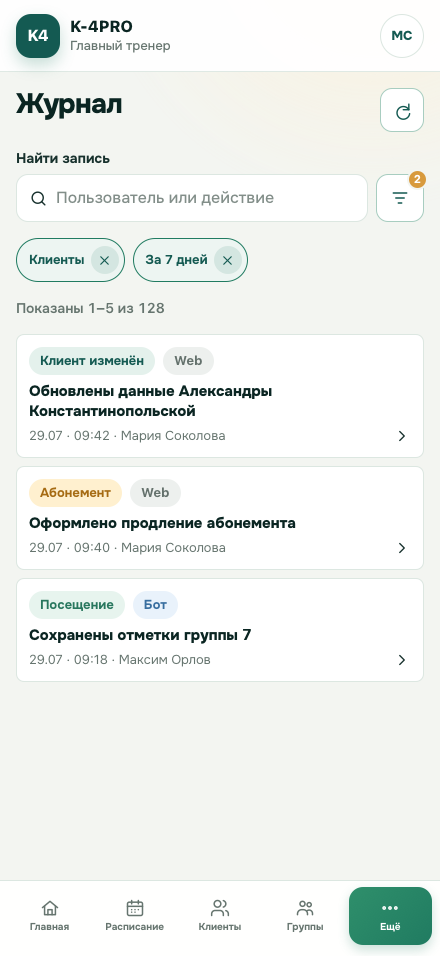
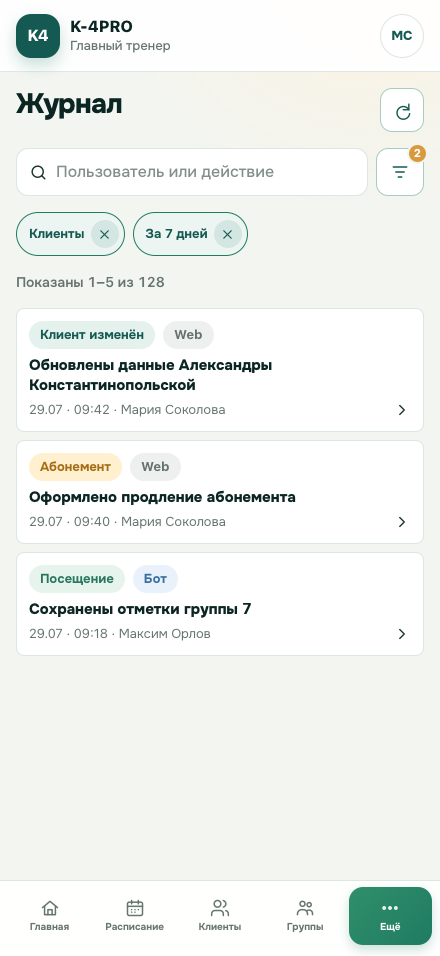
уточнение макетов

Changed region(s): [[0.0295, 0.1517, 0.9455, 0.6977], [0.8568, 0.1517, 0.975, 0.2123], [0.8864, 0.4247, 0.9159, 0.455]]

diff --git a/docs/ui-concept/task-090-iphone-17-pro-max/app.js b/docs/ui-concept/task-090-iphone-17-pro-max/app.js
@@ -93,13 +93,24 @@ function sectionTitle(title, description = '', action = '') {
     </div>`
 }
 
-function locator({ value = '', placeholder = 'Поиск', count = 0, label = 'Поиск', geometry = true } = {}) {
+function locator({
+  value = '',
+  placeholder = 'Поиск',
+  count = 0,
+  label = 'Поиск',
+  geometry = true,
+  visibleLabel = false,
+  kind = 'search',
+} = {}) {
+  const isSearch = kind === 'search'
+  const fieldRole = isSearch ? 'searchbox' : 'button'
+  const fieldLabel = isSearch ? label : `${label}: ${value}`
   return `
-    <div class="locator" role="search"${geometry ? ' data-geometry="locator"' : ''}>
+    <div class="locator locator--${kind}" role="${isSearch ? 'search' : 'group'}" data-locator-kind="${kind}"${geometry ? ' data-geometry="locator"' : ''}>
       <div class="locator__field">
-        <span class="persistent-label">${label}</span>
-        <div class="input-shell">
-          ${icon('search', 19)}
+        <span class="persistent-label${visibleLabel ? '' : ' sr-only'}">${label}</span>
+        <div class="input-shell" role="${fieldRole}" aria-label="${fieldLabel}">
+          ${icon(isSearch ? 'search' : 'calendar', 19)}
           <span class="${value ? 'input-shell__value' : 'input-shell__placeholder'}">${value || placeholder}</span>
           ${value ? icon('close', 18) : ''}
         </div>
@@ -236,7 +247,7 @@ function settingsTabs(active) {
 function baseClientsContext(body) {
   return shell(
     `${pageHeader('Клиенты', `${button('', { iconName: 'refresh' })}${button('', { iconName: 'plus', kind: 'accent' })}`)}
-    ${locator({ placeholder: 'Имя или телефон' })}
+    ${locator({ placeholder: 'Имя или телефон', label: 'Найти клиента' })}
     ${body}`,
     { active: 'clients' },
   )
@@ -335,7 +346,7 @@ const scenes = {
 
   'system-empty-filtered': () => shell(
     `${pageHeader('Клиенты')}
-    ${locator({ value: 'Алексей', count: 2 })}
+    ${locator({ value: 'Алексей', count: 2, label: 'Найти клиента' })}
     ${activeFilters(['Без абонемента', 'Группа 7'])}
     ${rangeStatus('0 совпадений')}
     ${statePanel('Клиенты не найдены', 'Поиск «Алексей» сохранён. Сбросьте только расширенные фильтры или очистите запрос отдельно.', { iconName: 'search', action: button('Сбросить фильтры', { kind: 'primary', iconName: 'filter' }) })}`,
@@ -422,7 +433,7 @@ const scenes = {
 
   'clients-browse': () => shell(
     `${pageHeader('Клиенты', `${button('', { iconName: 'refresh' })}${button('Новый', { kind: 'accent', iconName: 'plus' })}`)}
-    ${locator({ placeholder: 'Имя или телефон', count: 2 })}
+    ${locator({ placeholder: 'Имя или телефон', count: 2, label: 'Найти клиента' })}
     ${activeFilters(['Без абонемента', 'Активные'])}
     ${rangeStatus('Показаны 1–5 из 48')}
     <div class="task-list">
@@ -437,7 +448,7 @@ const scenes = {
   'clients-search-focused': () => shell(
     `<div class="page-stack" style="gap:12px">
       <h1 class="sr-only">Клиенты</h1>
-      ${locator({ value: 'А', count: 2 })}
+      ${locator({ value: 'А', count: 2, label: 'Найти клиента' })}
       ${activeFilters(['Активные', 'Без группы'])}
       ${rangeStatus('Показаны 1–6 · есть ещё')}
       <div class="task-list">
@@ -529,7 +540,7 @@ const scenes = {
   'groups-list': () => shell(
     `${pageHeader('Группы', `${button('', { iconName: 'refresh' })}${button('Создать', { kind: 'accent', iconName: 'plus' })}`)}
     <div class="metrics">${metric('Активные', '10')}${metric('Без тренера', '1', 'нужно назначить')}</div>
-    ${locator({ placeholder: 'Название группы', count: 1 })}
+    ${locator({ placeholder: 'Название группы', count: 1, label: 'Найти группу' })}
     ${rangeStatus('Показаны 1–3 из 12')}
     <div class="task-list">
       ${groupItem('Группа 7: вечер', 'Вт, Чт · старт 19:00 · 90 мин', 'Северный · Основной зал', 'Максим Орлов, Анна Лебедева', '14 клиентов · 2 тренера', 0)}
@@ -570,7 +581,7 @@ const scenes = {
   'users-list': () => shell(
     `${pageHeader('Тренеры', `${button('', { iconName: 'refresh' })}${button('Создать', { kind: 'accent', iconName: 'plus' })}`)}
     <div class="metrics">${metric('Активные', '7')}${metric('Смена пароля', '1')}</div>
-    ${locator({ placeholder: 'ФИО или логин', count: 1 })}
+    ${locator({ placeholder: 'ФИО или логин', count: 1, label: 'Найти тренера' })}
     ${rangeStatus('Показаны 1–4 из 8')}
     <div class="task-list">
       <article class="task-item" data-geometry="task-item-0"><div class="task-item__top"><div><div class="task-item__identity">Максим Орлов</div><div class="task-item__meta">maxim.orlov · Telegram подключён</div></div>${button('', { iconName: 'edit', kind: 'soft' })}</div><div class="badge-row">${badge('Главный тренер', 'brand')}${badge('Активен', 'success')}</div></article>
@@ -609,7 +620,7 @@ const scenes = {
 
   'audit-list': () => shell(
     `${pageHeader('Журнал', button('', { iconName: 'refresh' }))}
-    ${locator({ placeholder: 'Пользователь или действие', count: 2, label: 'Найти запись' })}
+    ${locator({ placeholder: 'Пользователь или действие', count: 2, label: 'Найти запись журнала' })}
     ${activeFilters(['Клиенты', 'За 7 дней'])}
     ${rangeStatus('Показаны 1–5 из 128')}
     <div class="task-list">
@@ -621,7 +632,7 @@ const scenes = {
   ),
 
   'audit-details-modal': () => shell(
-    `${pageHeader('Журнал')}${locator({ placeholder: 'Пользователь или действие', count: 2, label: 'Найти запись' })}<div class="task-list"><article class="audit-event"><div class="badge-row">${badge('Клиент изменён', 'brand')}</div><div class="audit-event__title">Обновлены данные Александры Константинопольской</div><div class="audit-event__meta">29.07 · 09:42 · Мария Соколова</div></article></div>`,
+    `${pageHeader('Журнал')}${locator({ placeholder: 'Пользователь или действие', count: 2, label: 'Найти запись журнала' })}<div class="task-list"><article class="audit-event"><div class="badge-row">${badge('Клиент изменён', 'brand')}</div><div class="audit-event__title">Обновлены данные Александры Константинопольской</div><div class="audit-event__meta">29.07 · 09:42 · Мария Соколова</div></article></div>`,
     { active: 'more', role: 'Главный тренер' },
   ) + modalOverlay(
     'Подробности записи',
@@ -631,7 +642,7 @@ const scenes = {
 
   'finance-report': () => shell(
     `${pageHeader('Финансы', button('', { iconName: 'refresh' }))}
-    ${locator({ value: 'Июль 2026', count: 1, label: 'Период отчёта' })}
+    ${locator({ value: 'Июль 2026', count: 1, label: 'Период отчёта', visibleLabel: true, kind: 'period' })}
     ${activeFilters(['Все филиалы'])}
     <div class="metrics">${metric('Выручка', '486 200 ₽', 'продажи за период')}${metric('Чистая выручка', '462 800 ₽', 'после возвратов')}${metric('Продано', '64', 'абонемента')}${metric('Новые клиенты', '18')}</div>
     ${section(`${sectionTitle('По филиалам')}<div class="breakdown-row"><span class="breakdown-row__name">Северный</span><span class="breakdown-row__value">286 400 ₽</span></div><div class="breakdown-row"><span class="breakdown-row__name">Центр</span><span class="breakdown-row__value">176 400 ₽</span></div>`)}
@@ -641,7 +652,7 @@ const scenes = {
 
   'finance-zero-report': () => shell(
     `${pageHeader('Финансы', button('', { iconName: 'refresh' }))}
-    ${locator({ value: '1–7 января 2025', count: 2, label: 'Период отчёта' })}
+    ${locator({ value: '1–7 января 2025', count: 2, label: 'Период отчёта', visibleLabel: true, kind: 'period' })}
     ${activeFilters(['Центр', 'Илья Миронов'])}
     <div class="metrics">${metric('Выручка', '0 ₽')}${metric('Продано', '0')}</div>
     ${statePanel('За выбранный период операций нет', 'Измените период или снимите фильтры. Текущий отчёт и выбранный контекст сохранены.', { iconName: 'money', action: button('Сбросить фильтры', { kind: 'primary', iconName: 'filter' }) })}`,

diff --git a/docs/ui-concept/README.md b/docs/ui-concept/README.md
@@ -46,6 +46,11 @@ Compact page header -> Summary/locator/filter -> Primary content surface
 - Допустимые пояснения к validation, recovery, constraint, security/legal или
   operational state показываются у связанного поля, действия или state panel,
   а не используются для заполнения header.
+- Единственный primary search locator не показывает отдельную строку `Поиск`
+  или `Найти...` на mobile и desktop. Его accessible name остаётся доступен
+  через visually-hidden label/ARIA, а placeholder описывает searchable fields.
+- Visible labels сохраняются у обычных form fields, нескольких неоднозначных
+  inputs и period/date/scope controls.
 - Ролевые бейджи показывать только когда они реально объясняют доступ или сценарий.
 - Summary strip: компактные stat pills в одну строку на desktop, wrap на mobile.
 - Filter bar: сначала частые фильтры, редкие фильтры в advanced area/drawer.

diff --git a/.agents/skills/crm-mobile-first-ui/references/mobile-acceptance.md b/.agents/skills/crm-mobile-first-ui/references/mobile-acceptance.md
@@ -56,6 +56,12 @@ visual viewport.
   toolbar/detail context, or state panel.
 - Desktop `1440 x 1200` does not reintroduce mobile-forbidden intro/hero or
   subtitle copy merely because more space is available.
+- A sole, obvious route-level search has no visible generic `Search`/`Find…`
+  label on mobile, tablet, or desktop.
+- Every visually unlabeled searchbox has a stable operation-and-object
+  accessible name from a label or ARIA; placeholder is not its only name.
+- Ordinary form fields, multiple or ambiguous text fields, and
+  period/date/scope controls retain visible persistent labels.
 - Fixed and sticky headers, bottom navigation, action bars, close controls, and notifications remain inside the safe area.
 - Safe-area spacing combines the project spacing token with `env(safe-area-inset-*)` or an equivalent measured inset; the safe-area inset does not replace the normal content margin.
 - Full-height mobile surfaces remain usable as Safari chrome expands or collapses and do not rely on `100vh` alone as evidence of correct height.

diff --git a/.agents/skills/crm-mobile-first-ui/SKILL.md b/.agents/skills/crm-mobile-first-ui/SKILL.md
@@ -81,6 +81,11 @@ Rules:
 - place allowed validation, recovery, security/legal, prerequisite, scope, and
   operational-state copy next to the affected field, action, section, or state
   surface instead of using it as decorative text under the route title.
+- omit the visible generic label above a sole, obvious route-level search on
+  mobile and desktop; keep a stable accessible name through an associated
+  visually-hidden label or ARIA, and do not use placeholder as that name;
+- preserve visible persistent labels for ordinary forms, multiple or ambiguous
+  text fields, and period/date/scope controls.
 
 Use `.agents/skills/design-first-ui-prompting/SKILL.md` only when the
 deliverable includes a prompt for an external UI generator, a static visual

diff --git a/.agents/skills/crm-mobile-first-ui/references/mantine-patterns.md b/.agents/skills/crm-mobile-first-ui/references/mantine-patterns.md
@@ -42,7 +42,9 @@ Use the installed Mantine version and inspect existing shared components before 
 
 - Use the correct input type and autocomplete attributes.
 - Keep text inputs, textareas, and selects at 16 CSS px or larger on iPhone.
-- Keep labels persistent; do not rely on placeholder-only identification.
+- Keep labels persistent for ordinary forms, multiple or ambiguous fields, and
+  period/date/scope controls. A sole obvious route-level search may use a
+  visually-hidden label or ARIA name, but never placeholder-only identification.
 - Scroll or focus the first invalid field after submit.
 - Preserve entered values after recoverable API errors.
 - Keep the submit action visible or reachable with the mobile keyboard open.

diff --git a/docs/ui-concept/task-090-iphone-17-pro-max/README.md b/docs/ui-concept/task-090-iphone-17-pro-max/README.md
@@ -31,6 +31,8 @@ The rendered screenshots follow the cross-device explanatory-copy rule in
   eyebrow, badge, intro or helper copy;
 - form/auth screens do not use pre-title badges or generic lead text that
   repeats the primary action;
+- a sole primary search does not show a generic label above the field, while
+  retaining a stable accessible name independent of placeholder;
 - required validation, recovery, constraint, security/legal and
   operational-state copy is placed next to the affected field/action/section.
 
